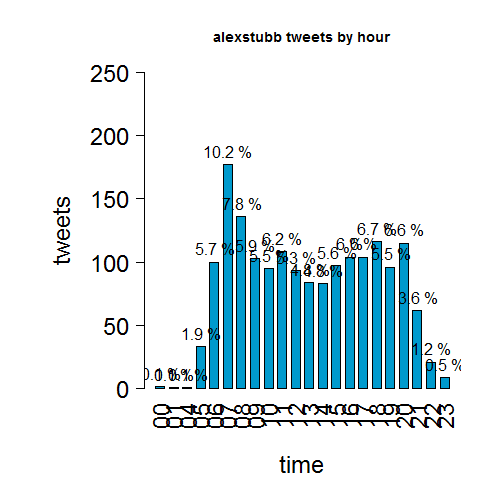
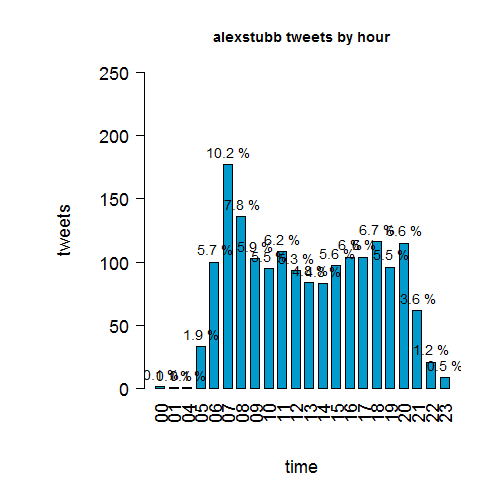
update README

diff --git a/README.md b/README.md
@@ -24,13 +24,13 @@ par(mar=c(8,9,6,4))
 h <- hist(tw$created, main = paste(tweeter, "tweets by month"),
      breaks="month", freq=T, 
      xlab="",ylab="", las=2,
-     labels=T, cex.axis=1.5, cex.lab=2,
+     labels=T, cex.axis=1.3, cex.lab=1.5,
      ylim= c(0,400), format="%Y-%m",
      col="cadetblue3")
 mtext(side = 2, text = "tweets", line = 5, cex = 1.5)
 ```
 
-<img src="figure/monthly_tweets-1.png" title="plot of chunk monthly_tweets" alt="plot of chunk monthly_tweets" width="700px" />
+<img src="figure/monthly_tweets-1.png" title="plot of chunk monthly_tweets" alt="plot of chunk monthly_tweets" width="650px" />
 
 ### Daily tweets
 
@@ -40,16 +40,16 @@ par(mar=c(7,9,5,3))
 h <- hist(tw$created, main = paste(tweeter, "tweets by day"),
           breaks="days", freq=T, 
           xlab="", ylab="",col="grey55", lty=0,
-          cex.axis=2 ,cex.lab=2, tck=0.05, xaxt="n")
+          cex.axis=1.3 ,cex.lab=1.5, tck=0.05, xaxt="n")
 peaks=2
 tickpos <- h$breaks[order(h$counts,decreasing=T)[1:peaks]]
 labels <- names(sort(table(format(tw$created,"%d.%m.%Y")),decreasing=T))[1:peaks]
-axis(1, at=tickpos, labels=labels,cex.axis=2)
-mtext(side = 2, text = "tweets", line = 5, cex = 2)
-mtext(side = 1, text = "day", line = 3, cex = 2)
+axis(1, at=tickpos, labels=labels,cex.axis=1.5)
+mtext(side = 2, text = "tweets", line = 5, cex = 1.5)
+mtext(side = 1, text = "day", line = 3, cex = 1.5)
 ```
 
-<img src="figure/daily_tweets-1.png" title="plot of chunk daily_tweets" alt="plot of chunk daily_tweets" width="700px" />
+<img src="figure/daily_tweets-1.png" title="plot of chunk daily_tweets" alt="plot of chunk daily_tweets" width="650px" />
 
 ### Hourly tweets
 
@@ -60,12 +60,12 @@ hourly_prc <- paste(round(100*hourly/sum(hourly),1),"%")
 par(mar=c(8,10,5,3))
 bp <- barplot(hourly, main = paste(tweeter, "tweets by hour"),
               space=0.5, ylim=c(0,250),
-              ylab="",cex.lab=2, cex.names = 2,
-              cex.axis=2, las=2, col = "deepskyblue3",
+              ylab="",cex.lab=1.5, cex.names = 1.5,
+              cex.axis=1.5, las=2, col = "deepskyblue3",
               xlab="")
-text(bp+0.1, hourly, hourly_prc, pos=3, cex=1.3) 
-mtext(side = 2, text = "tweets", line = 5, cex = 2)
-mtext(side = 1, text = "time", line = 5, cex = 2)
+text(bp+0.1, hourly, hourly_prc, pos=3, cex=1.2) 
+mtext(side = 2, text = "tweets", line = 5, cex = 1.5)
+mtext(side = 1, text = "time", line = 5, cex = 1.5)
 ```
 
 <img src="figure/tweets_hour-1.png" title="plot of chunk tweets_hour" alt="plot of chunk tweets_hour" width="700px" />
@@ -99,11 +99,11 @@ newpar <- par(mfrow=c(2,2))
 for(i in 1:4){
   time <- topdaydata[[i]]$created
   hist(time, breaks=100,freq=T,border=NULL,ylab="Tweets",
-       tck=0,cex.axis=0.8,cex.lab=0.6, xlab="",
-       main=paste0(tweeter," ",i ),
-       cex.main=0.7, ylim=c(0,8))
+       tck=0,cex.axis=0.8, cex.lab=0.8, xlab="",
+       main=paste0(tweeter," ",time),
+       cex.main=1, ylim=c(0,8), las = 2)
 }
 ```
 
-<img src="figure/top_days-1.png" title="plot of chunk top_days" alt="plot of chunk top_days" width="700px" />
+<img src="figure/top_days-1.png" title="plot of chunk top_days" alt="plot of chunk top_days" width="650px" />
 
